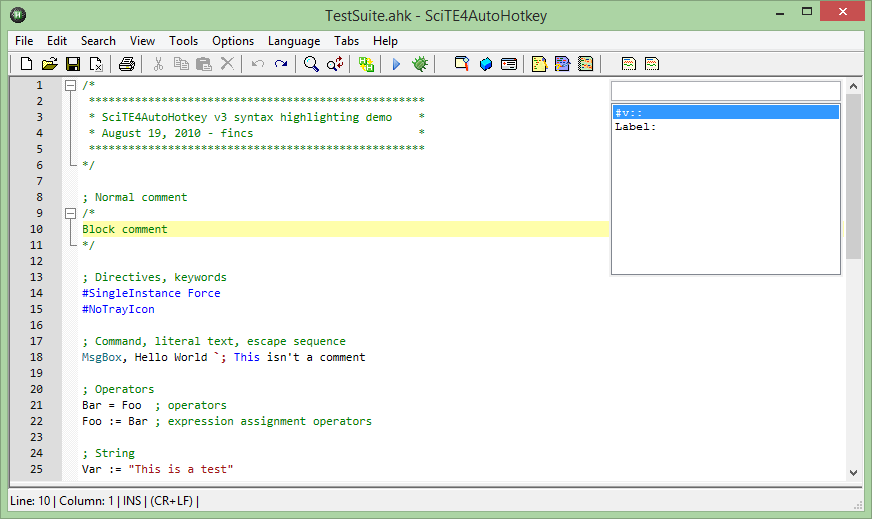
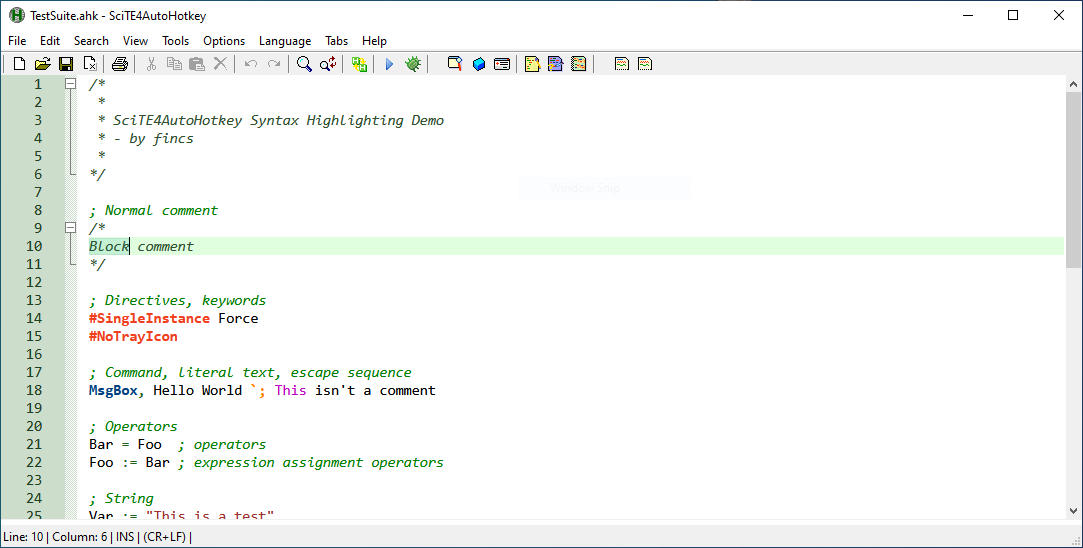
SciTE4AutoHotkey v3.1.0

Changed region(s): [[0.0, 0.0, 1.0, 1.0]]

diff --git a/changelog.htm b/changelog.htm
@@ -11,13 +11,40 @@
 <h1>Changelog</h1>
 
 <!-- new versions go here -->
+<h2>v3.1.0 - May 15, 2022</h2>
+<h4>Changes and new features:</h4>
+<p>Dropped support for Windows XP.</p>
+<p>Upgraded to SciTE/Scintilla 5.2.2 and Lexilla 5.1.6.</p>
+<p>AutoHotkey v1.1.34 syntax definition updates.</p>
+<p>AutoHotkey v2.0-beta support, including a completely rewritten new lexer.</p>
+<p>Keyword definitions are now almost entirely sourced from the AutoHotkey documentation instead of maintained by hand.</p>
+<p>Introduced new SciTE4AutoHotkey style format (<code>s4ahk.style=2</code>). Version 1 styles are automatically converted
+when edited by the style editor. Older legacy styles are no longer supported.</p>
+<p>Introduced new default Light/Dark styles (replacing the previous collection of built-in styles).</p>
+<p>The code font is now independently configured and no longer depends on the selected style.</p>
+<p>Enhanced the graphical settings and style editors to support more common options.</p>
+<p>Merged numerous Debugger improvements and bug-fixes, courtesy of Lexikos.</p>
+<p>SciTE4AutoHotkey is now registered as an "Open With" application for .ahk files.</p>
+<p>Added Swedish translation (courtesy of Mikael Hiort).</p>
+<p>Added Korean translation (courtesy of joyfuI).</p>
+<p>Added mechanism for disabling global Toolbar buttons.</p>
+<p>Added support for passing parameters to debugged scripts.</p>
+<h4>Known issues:</h4>
+<p>Calltip functionality has been temporarily removed as a side effect of the new syntax definition autogeneration, as well as SciTE limitations.</p>
+<p>Help file word lookup is currently broken as a result of (not so) recent changes in AutoHotkey's CHM file.</p>
+<p>Debugging AutoHotkey v2 scripts is known to sometimes produce crashes under certain circumstances.</p>
+<p>AutoHotkey v2 AutoIndent only works when control flow statements are typed in lowercase.</p>
+<h4>Bug-fixes:</h4>
+<p>The auto-updater now behaves properly if the update server is down instead of behaving erratically.</p>
+<p>Many other miscellaneous fixes, optimizations, code modernisation and cleanup.</p>
+
 <h2>v3.0.06.01 - October 12, 2014</h2>
 <h4>Changes and new features:</h4>
 <p>Upgraded to SciTE/Scintilla 3.5.1.</p>
 <p>AutoHotkey v1.1.16 syntax definition updates.</p>
 <p>AutoHotkey v2.0-a056 syntax definition updates.</p>
 <p>Added 'Run selection' context menu command (requires AutoHotkey v1.1.17)</p>
-<h4>Bug-fixes:</h2>
+<h4>Bug-fixes:</h4>
 <p>AutoHotkey v2 syntax highlighting: BIFs in command syntax (broken by v3.0.06)</p>
 
 <h2>v3.0.06 - August 18, 2014</h2>
@@ -29,7 +56,7 @@
 <p>AutoHotkey v2: added object command syntax support.</p>
 <p>AutoHotkey v2: introduced new syntax highlighting styles for object properties, methods, built-in
 properties and built-in methods.</p>
-<h4>Bug-fixes:</h2>
+<h4>Bug-fixes:</h4>
 <p>Minor debugger refactoring.</p>
 <p>Toolbar startup stability and reliability fixes.</p>
 
@@ -38,7 +65,7 @@ properties and built-in methods.</p>
 <p>Upgraded to SciTE/Scintilla 3.4.1.</p>
 <p>Incremental search and replace were disabled, this makes the 'Find/Replace Next' button useful again.</p>
 <p>An 'Unmark All' button was added to the Find command.
-<h4>Bug-fixes:</h2>
+<h4>Bug-fixes:</h4>
 <p>Toolbar startup stability and reliability fixes.</p>
 
 <h2>v3.0.05 - March 23, 2014</h2>

diff --git a/pages/ahkv2.htm b/pages/ahkv2.htm
@@ -9,30 +9,36 @@
 </head>
 <body>
 <h1>AutoHotkey v2 Support</h1>
-<p>SciTE4AutoHotkey supports editing <a href="http://ahkscript.org/v2/">AutoHotkey v2</a>
-scripts. To enable this feature, <code>%AutoHotkeyDir%\v2-alpha\x86\AutoHotkey.exe</code>
-(or x64) must exist. After this, select the v2 platform using the platform selector
+<p><strong>Functionality subject to change in a future version of SciTE4AutoHotkey.</strong></p>
+<p>SciTE4AutoHotkey supports editing <a href="https://www.autohotkey.com/v2/">AutoHotkey v2</a>
+scripts. To enable this feature, the <a href="https://www.autohotkey.com/download/ahk-v2.zip">latest AutoHotkey v2 zip</a>
+must be extracted to <code>%AutoHotkeyDir%\v2</code>.
+After this, select the v2 platform using the platform selector
 (<img src="icon/ahkswitch.ico" alt="" border="0"/>), and .ahk files will now be detected as
 AutoHotkey v2 files. This setting takes immediate effect and does not require restarting the
 editor. The following items are supported for AutoHotkey v2 Code:</p>
 <ul>
 <li>Highly Accurate Syntax Highlighting that includes support for:
 	<ul>
-	<li>Command and Function syntax (including Object command syntax)</li>
-	<li>Flow of Control statements</li>
+	<li>Modern AutoHotkey v2 expression syntax, including function call statements</li>
+	<li>Control flow statements</li>
+	<li>Class and property getter/setter definitions</li>
 	<li>Line and block comments</li>
-	<li>#Directives</li>
+	<li>#Directives taking both string and expression arguments</li>
 	<li>Escape sequences in strings</li>
-	<li>Nested <code>%expressions%</code> (up to 5 levels of nesting), including command argument force-expression (<code>% Expr</code>) mode</li>
-	<li>Continuation sections of all kind, options are even detected</li>
-	<li>Built-in Variables and Built-in Functions</li>
-	<li>Object Methods and Object Properties</li>
-	<li>Built-in Object Methods and Built-in Object Properties</li>
+	<li>Continuation sections (for both strings and expressions), with option parsing</li>
+	<li>Top level identifiers and object syntax identifiers</li>
+	<li>Customizable substyles and keyword lists for known identifiers, currently including by default:
+		<ul>
+		<li>Predefined variables, functions and classes</li>
+		<li>Predefined object properties and methods</li>
+		</ul>
+	</li>
 	<li>Hotkeys, Hotstrings, Remaps and Labels</li>
 	</ul>
 </li>
 <li>Folding</li>
-<li>AutoComplete and Calltips: the latter contain a short description of all Built-in Functions.</li>
+<li>AutoComplete</li>
 <li>Interactive Debugging</li>
 <li>Launching scripts using the Run / Quick Run command.</li>
 </ul>

diff --git a/pages/working.htm b/pages/working.htm
@@ -17,22 +17,22 @@
 command/function and press F1.</p>
 <h2>Compiling AutoHotkey scripts</h2>
 <p>Press Ctrl+F7 to compile your script or select Tools > Compile in the menu bar.</p>
-<h2>Selecting the AutoHotkey version (advanced)</h2>
-<p>You can choose which build of AutoHotkey you want to use for running and
+<h2>Selecting the AutoHotkey version</h2>
+<p><strong>Functionality subject to change in a future version of SciTE4AutoHotkey.</strong></p>
+<p>You can choose which AutoHotkey executable you want to use for running and
 compiling scripts by clicking on the platform selection button in the toolbar
 (<img src="icon/ahkswitch.ico" alt="" border="0"/>). This is useful if you
 need to check your scripts' compatibility with said builds.</p>
-<p>Currently SciTE4AutoHotkey lets you use the following builds:</p>
+<p>Currently, SciTE4AutoHotkey looks for AutoHotkey v1.1 executables in the following locations:</p>
 <ul>
-<li><strong>ANSI</strong>: it refers to the ANSI build: <code>%AhkDir%\AutoHotkeyA32.exe</code></li>
-<li><strong>Unicode</strong>: it refers to the Unicode build: <code>%AhkDir%\AutoHotkeyU32.exe</code></li>
-<li><strong>x64</strong>: it refers to 64-bit (Unicode) build: <code>%AhkDir%\AutoHotkeyU64.exe</code></li>
+<li><strong>ANSI</strong> (32-bit ANSI): <code>%AhkDir%\AutoHotkeyA32.exe</code></li>
+<li><strong>Unicode</strong> (32-bit Unicode): <code>%AhkDir%\AutoHotkeyU32.exe</code></li>
+<li><strong>x64</strong> (64-bit Unicode): <code>%AhkDir%\AutoHotkeyU64.exe</code></li>
 </ul>
-<p>If AutoHotkey v2-alpha is installed, the following platforms are also available (although without
-support for compiling scripts due to the lack of publicly released self-contained binaries):</p>
+<p>AutoHotkey v2 executables can also be used:</p>
 <ul>
-<li><strong>v2(x86)</strong>: requires <code>%AhkDir%\v2-alpha\x86\AutoHotkey.exe</code> to be present.</li>
-<li><strong>v2(x64)</strong>: requires <code>%AhkDir%\v2-alpha\x64\AutoHotkey.exe</code> to be present.</li>
+<li><strong>v2(x86)</strong>: <code>%AhkDir%\v2\AutoHotkey32.exe</code></li>
+<li><strong>v2(x64)</strong>: <code>%AhkDir%\v2\AutoHotkey64.exe</code></li>
 </ul>
 </body>
 </html>

diff --git a/index.html b/index.html
@@ -28,33 +28,29 @@
 
 <div class="header">
 <h1>SciTE4AutoHotkey</h1>
-<p class="sidenote"><a href="http://fincs.ahk4.net/donate.html"><img src="http://fincs.ahk4.net/btc.png" alt="BTC"> Donate</a></p>
 <p style="font-size:130%;">
 <a href="intro.htm">Documentation</a> |
-<a href="http://ahkscript.org/boards/viewtopic.php?f=6&t=62">Forum</a> |
+<a href="https://www.autohotkey.com/boards/viewforum.php?f=61">Forum</a> |
 <a href="https://github.com/fincs/SciTE4AutoHotkey">Source code</a></p>
 </div>
 
 <h2 id="Downloads">Downloads</h2>
-<div class="update"><a href="changelog.htm"><strong>v3.0.06.01</strong> - October 12, 2014</a></div>
+<div class="update"><a href="changelog.htm"><strong>v3.1.0</strong> - May 15, 2022</a></div>
 <p><a href="dl/s4ahk-install.exe"><strong style="font-size:150%">Installer</strong></a> - this program will install SciTE4AutoHotkey automatically.</p>
 <h3>Other Downloads</h3>
 <p><a href="dl/s4ahk-portable.zip">Portable .ZIP</a> - designed for <strong>USB sticks</strong>. Extract this archive to your portable AutoHotkey folder.<p>
-<p><a href="dl/s4ahk-scilexer.zip">SciLexer.dll</a> with AutoHotkey support - useful if you want to develop an application that uses Scintilla.</p>
 <p>Some older downloads are available in <a href="dl/">the archives</a>.</p>
 
 <h2 id="Description">What is it?</h2>
 <p>SciTE4AutoHotkey is a lightweight and easy to use <a href="http://www.scintilla.org/">SciTE-based</a> AutoHotkey script editor. It provides:</p>
 <ul>
 <li><span style="color: red">Syntax</span> <span style="color: blue">highlighting</span></li>
-<li>Calltips (also known as IntelliSense)</li>
 <li>AutoComplete</li>
 <li>AutoIndent</li>
 <li>AutoHotkey help integration</li>
 <li>Abbreviations</li>
 <li>Editing macros</li>
 <li>Interactive debugging</li>
-<li>Tools for AutoHotkey scripting</li>
 <li>Powerful extension mechanisms</li>
 </ul>
 

diff --git a/pages/gendocs.htm b/pages/gendocs.htm
@@ -10,6 +10,7 @@
 <body>
 
 <h1>GenDocs 3.0-alpha004</h1>
+<p><strong>This functionality is deprecated and will be removed in a future version of SciTE4AutoHotkey.</strong></p>
 <p>GenDocs is a utility for easily creating documentation for AutoHotkey libraries. It supports the following structures:</p>
 <ul>
 <li>Functions</li>
@@ -49,8 +50,8 @@
 <pre class="NoIndent"><em>/*!
 	Library: Test library, version 1.0
 		This library does something
-		
-		or maybe not!  
+
+		or maybe not!
 		In-paragraph line breaks work
 	Author: fincs
 	License: WTFPL
@@ -108,7 +109,7 @@ class MyClass extends OtherClass
 	__New(a)
 	{
 	}
-	
+
 	<em>/*!
 		Method: Hello()
 			Displays hello world message.
@@ -116,7 +117,7 @@ class MyClass extends OtherClass
 	Hello()
 	{
 	}
-	
+
 	__Get(m, p*)
 	{
 		return this[&quot;get_&quot; m](p*)
@@ -126,7 +127,7 @@ class MyClass extends OtherClass
 	{
 		return this[&quot;set_&quot; m](v, p*)
 	}
-	
+
 	<em>/*!
 		Property: Something [get/set]
 			It's the something of a something
@@ -135,15 +136,15 @@ class MyClass extends OtherClass
 		Remarks:
 			Automagically dinner
 	*/</em>
-	
+
 	get_Something()
 	{
 	}
-	
+
 	set_Something(ByRef v)
 	{
 	}
-	
+
 	<em>/*!
 		Class: Meow
 			What do you want me to do?!?!
@@ -165,14 +166,14 @@ class MyClass extends OtherClass
 		{
 			MsgBox, % msg
 		}
-		
+
 		<em>/*!
 			Class: MoreNesting
 				Nesting is so much fun!
 			Example:
 				&gt; MsgBox MoreNesting example ; Testing
 		*/</em>
-		
+
 		class MoreNesting
 		{
 			<em>/*!
@@ -185,7 +186,7 @@ class MyClass extends OtherClass
 					return true
 			}
 		}
-		
+
 		<em>/*!
 			End of class
 		*/</em>

diff --git a/pages/calltips_autoc.htm b/pages/calltips_autoc.htm
@@ -2,19 +2,19 @@
 "http://www.w3.org/TR/html4/loose.dtd">
 <html>
 <head>
-<title>Calltips and AutoComplete</title>
+<title>AutoComplete</title>
 <meta http-equiv="Content-Type" content="text/html; charset=utf-8">
 <meta http-equiv="X-UA-Compatible" content="IE=edge">
 <link href="../default.css" rel="stylesheet" type="text/css">
 </head>
 <body>
-<h1>Calltips and AutoComplete</h1>
+<h1>AutoComplete</h1>
 <p>When coding, little pop-up boxes <em>(AutoComplete boxes)</em> will appear containing completion
 information that can save you from typing the whole name of the command or function you're typing:</p>
 <img src="img/autoc.png" alt="" border="0"/>
 <p>If you press Enter, the selected word will be automatically inserted.</p>
-<p>Additionally, a help info pop-up <em>(calltip)</em> shows when you type the comma or the space for a
+<!--<p>Additionally, a help info pop-up <em>(calltip)</em> shows when you type the comma or the space for a
 command or the left parenthesis symbol for a function:</p>
-<img src="img/calltip.png" alt="" border="0"/>
+<img src="img/calltip.png" alt="" border="0"/>-->
 </body>
 </html>

diff --git a/intro.htm b/intro.htm
@@ -9,7 +9,7 @@
 </head>
 <body>
 <p><a href="http://fincs.ahk4.net/scite4ahk/"><img src="logo.png" border="0" alt=""/></a></p>
-<h1>Version <a href="changelog.htm">v3.0.06.01</a></h1>
+<h1>Version <a href="changelog.htm">v3.1.0</a></h1>
 <p><em>SciTE distribution designed for AutoHotkey - made by fincs - Original SciTE made by Neil Hodgson</em></p>
 <h2>Quick Reference</h2>
 <p>Usage:</p>
@@ -27,14 +27,14 @@
 <li><a href="pages/synhighl.htm">Syntax highlighting</a></li>
 <li><a href="pages/folding.htm">Code folding</a></li>
 <li><a href="pages/contextmenu.htm">Context menu</a></li>
-<li><a href="pages/calltips_autoc.htm">Calltips and Autocomplete</a></li>
+<li><a href="pages/calltips_autoc.htm">AutoComplete</a></li>
 </ul>
 <p>Extending the editor:</p>
 <ul>
 <li><a href="pages/extensions.htm">Extensions</a></li>
 <li><a href="pages/comiface.htm">COM interface</a></li>
 </ul>
-<p>Tool documentation:</p>
+<p>Tool documentation (<strong>Deprecated</strong>):</p>
 <ul>
 <li><a href="pages/smartgui.htm">SmartGUI Creator 4.0</a></li>
 <li><a href="pages/msgboxc.htm">MsgBox Creator</a></li>

diff --git a/pages/settings.htm b/pages/settings.htm
@@ -9,10 +9,8 @@
 </head>
 <body>
 <h1>Changing settings</h1>
-<p>If you want to quickly change some specific settings, go to Tools &gt; &quot;SciTE4AutoHotkey settings...&quot;.</p>
+<p>SciTE4AutoHotkey has a graphical editor for some of the most commonly used settings. It can be found in the Tools &gt; &quot;SciTE4AutoHotkey settings...&quot; menu:</p>
 <img src="img/settings.png" alt="" border="0"/>
-<p>Here you can change the display language, the syntax highlighting style, the default script codepage, the
-default zoom and turn on/off the auto-backup feature and window position remembering.</p>
 <p>By clicking on the Edit Style button, the built-in Style Editor will show up:</p>
 <img src="img/styleedit.png" alt="" border="0"/>
 <p>With this editor, you can tweak the syntax highlighting configuration to your liking. All styles inherit

diff --git a/license.htm b/license.htm
@@ -10,7 +10,7 @@
 <body>
 <h1>Software License</h1>
 <h2>Scintilla and SciTE</h2>
-<pre class="NoIndent">Copyright 1998-2014 by Neil Hodgson &lt;neilh@scintilla.org&gt;
+<pre class="NoIndent">Copyright 1998-2022 by Neil Hodgson &lt;neilh@scintilla.org&gt;
 
 All Rights Reserved
 
@@ -29,7 +29,7 @@ WHETHER IN AN ACTION OF CONTRACT, NEGLIGENCE OR OTHER
 TORTIOUS ACTION, ARISING OUT OF OR IN CONNECTION WITH THE USE
 OR PERFORMANCE OF THIS SOFTWARE.</pre>
 <h2>Everything else</h2>
-<pre class="NoIndent">Copyright 2007-2014 by fincs (@ autohotkey.com forum)
+<pre class="NoIndent">Copyright 2007-2022 by fincs (@ autohotkey.com forum)
 
 This program is free software. It comes without any warranty, to
 the extent permitted by applicable law. You can redistribute it and/or

diff --git a/pages/slutil.htm b/pages/slutil.htm
@@ -9,6 +9,7 @@
 </head>
 <body>
 <h1>Scriptlet Utility</h1>
+<p><strong>This functionality is deprecated and will be removed in a future version of SciTE4AutoHotkey.</strong></p>
 <p>The Scriptlet Utility is a tool that allows you to quickly access code snippets and insert them into the
 script you are writing. To open it, click on its icon in the toolbar
 (<img src="icon/slutil.ico" alt="" border="0"/>).</p>

diff --git a/pages/tillagoto.htm b/pages/tillagoto.htm
@@ -9,6 +9,7 @@
 </head>
 <body>
 <h1>TillaGoto</h1>
+<p><strong>This functionality is deprecated and will be removed in a future version of SciTE4AutoHotkey.</strong></p>
 <p>TillaGoto is a tool that allows you to quickly list all functions, labels and hotkeys (FLHs) in a script
 and go to their definitions. In order to bring up the FLH list, press F12:</p>
 <img src="img/tillagoto.png" alt="" border="0"/>

diff --git a/pages/smartgui.htm b/pages/smartgui.htm
@@ -9,6 +9,7 @@
 </head>
 <body>
 <h1>SmartGUI Creator 4.0</h1>
+<p><strong>This functionality is deprecated and will be removed in a future version of SciTE4AutoHotkey.</strong></p>
 <p><a href="http://www.autohotkey.net/~rajat/SGUI/index.html">SmartGUI Creator</a> is a WYSIWYG
 AutoHotkey GUI editor.</p>
 <p>The build of SmartGUI Creator bundled with SciTE4AutoHotkey has some minor modifications:</p>
